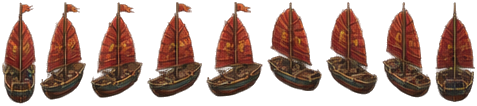
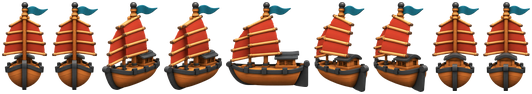
Toy-style Junk and Catamaran from their 5-view sets; cutter retries tighter grouping
Claude-Session: https://claude.ai/code/session_01FCp3PwgtusK1H34abZ7FvQ

diff --git a/tools/cut-ship-views.py b/tools/cut-ship-views.py
@@ -17,9 +17,14 @@ core = ndimage.binary_erosion(A > 240, iterations=2)
 fringe = (~core) & (A < 250) & (((r > 170) & (g < 80) & (b < 80)) | ((r > 200) & (g > 190) & (b < 70)))
 src[..., 3] = np.where(fringe | (A < 24), 0, A)
 m = src[..., 3] > 128
-l, k = ndimage.label(ndimage.binary_dilation(m, iterations=8))
-sz = ndimage.sum(m, l, range(1, k + 1))
-objs = sorted([i + 1 for i in range(k) if sz[i] > 0.2 * sz.max()], key=lambda i: ndimage.find_objects(l)[i - 1][1].start)
+# Group each view's pieces (flag, mast) by dilating; views drawn close
+# together need less dilation, so try progressively smaller amounts.
+for it in (8, 5, 3, 1):
+    l, k = ndimage.label(ndimage.binary_dilation(m, iterations=it))
+    sz = ndimage.sum(m, l, range(1, k + 1))
+    objs = sorted([i + 1 for i in range(k) if sz[i] > 0.2 * sz.max()], key=lambda i: ndimage.find_objects(l)[i - 1][1].start)
+    if len(objs) == 5:
+        break
 assert len(objs) == 5, f'expected 5 views, found {len(objs)}'
 sl = ndimage.find_objects(l)
 views = []

diff --git a/CLAUDE.md b/CLAUDE.md
@@ -2710,9 +2710,10 @@ quests/NPCs/dialogue, cosmetics, audio beyond hooks, any backend.
   through the recolour. Fixed a creature-art test that rejected
   `<id>_flying` keys (the previous commit went out with it failing).
   472/472.
-- Skiff done the same way (same day).
-- **Next up:** the other four hulls the same way (Catamaran,
-  Junk, Ironclad Steamer, Galleon) once the owner has their 5-view sets.
+- Skiff, Junk and Catamaran done the same way (same day). The cutter
+  now retries smaller dilations when two views sit close together.
+- **Next up:** the last two hulls the same way (Ironclad Steamer,
+  Galleon) once the owner has their 5-view sets.
 
 - **Phase:** the crowd (owner playtest 2026-10-06 with shop upgrades: dev
   sliders at ×4 enemies and ×4 spawn speed "felt good", stage 1 won
